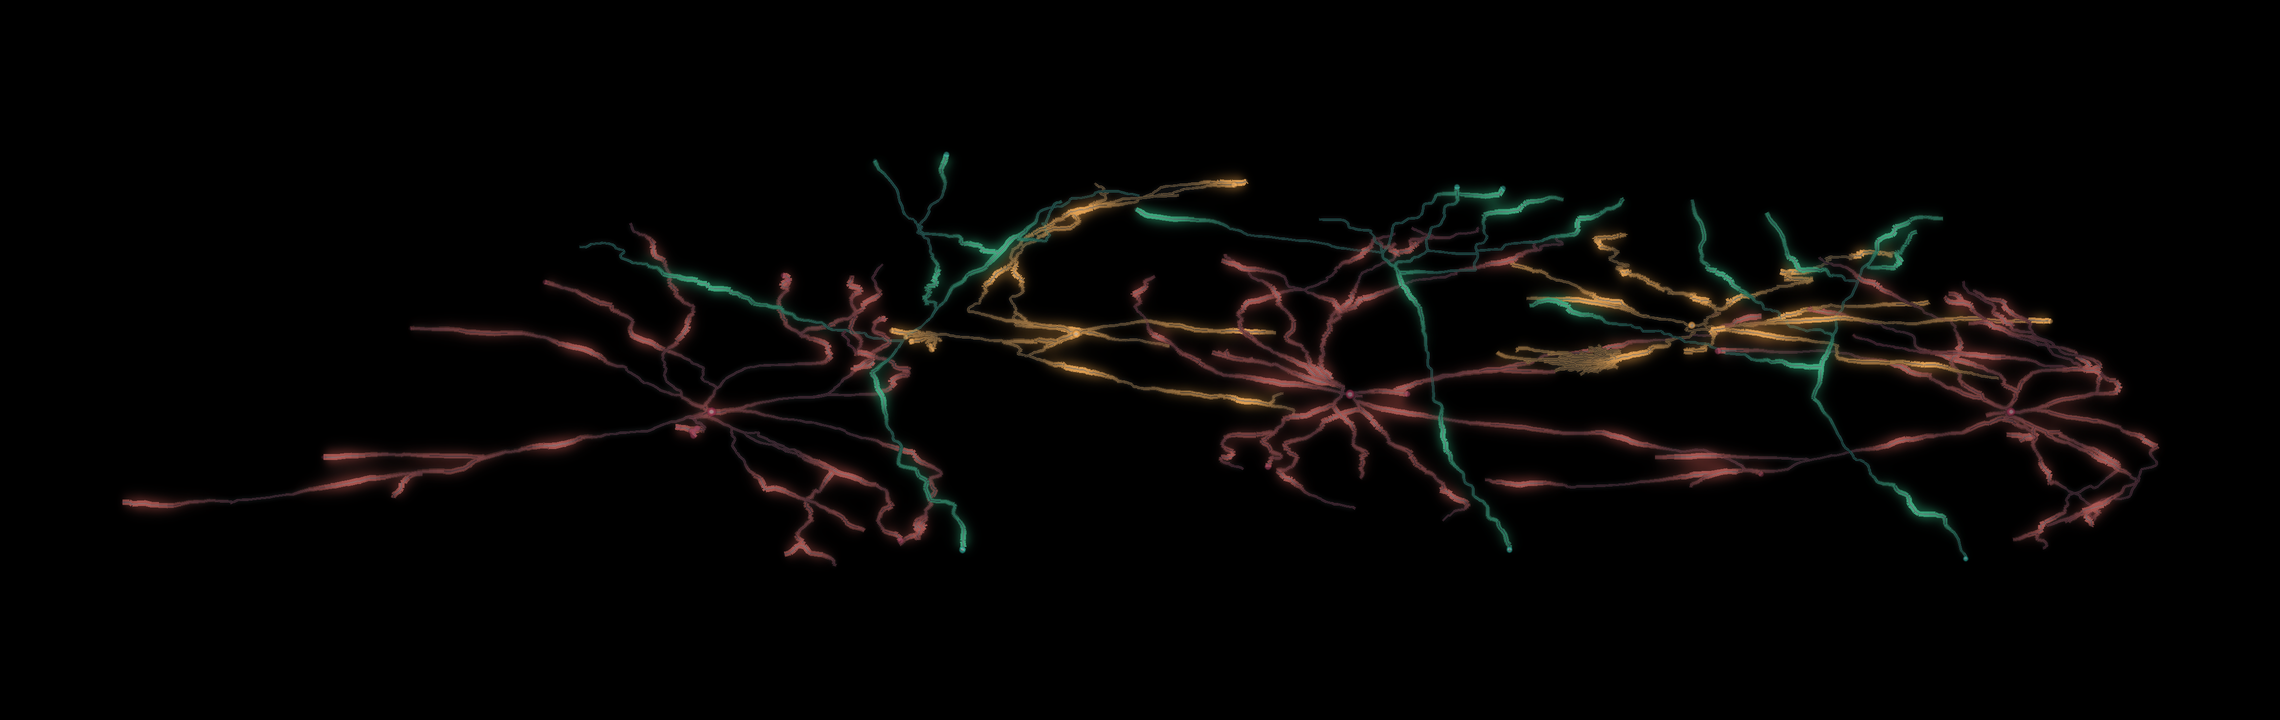
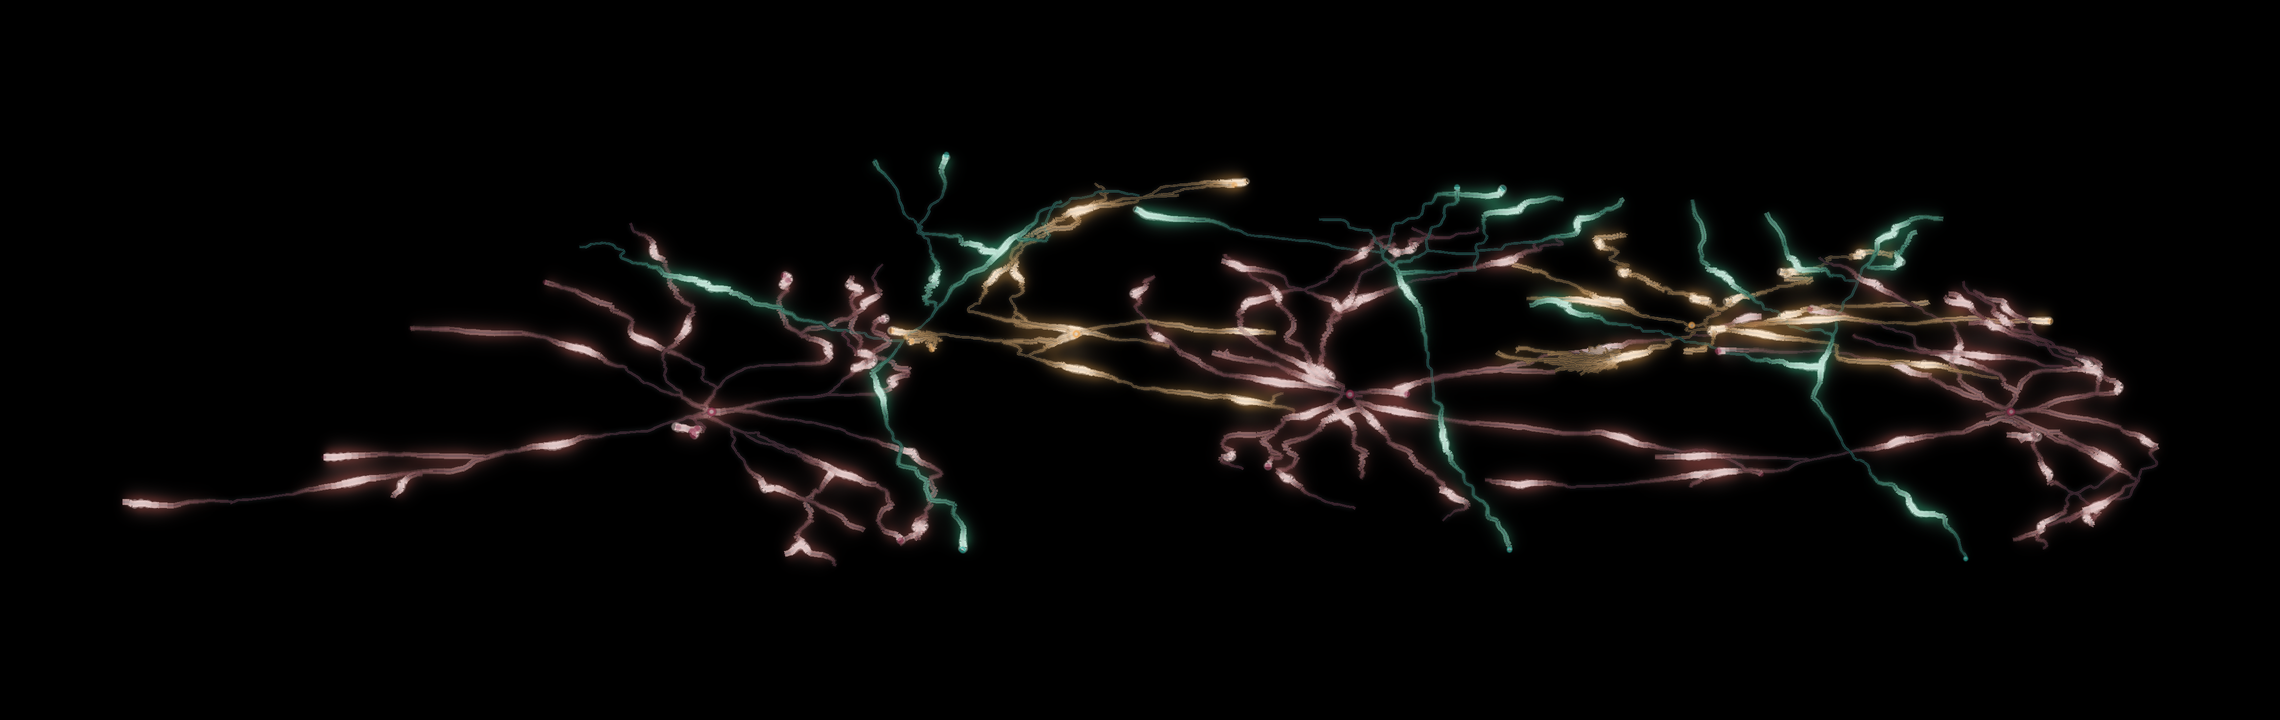
Strengthen header pulse bloom highlights

diff --git a/notebooks/website_header_blenderneuron_style.py b/notebooks/website_header_blenderneuron_style.py
@@ -25,6 +25,7 @@ GOLD = np.array([241, 161, 67], dtype=float)
 TEAL = np.array([21, 168, 152], dtype=float)
 CYAN = np.array([8, 232, 232], dtype=float)
 GREEN = np.array([104, 200, 8], dtype=float)
+WHITE = np.array([255, 255, 255], dtype=float)
 BG = tuple(int(channel) for channel in INK)
 TYPE_COLORS = {
     "MC": MAROON,
@@ -440,17 +441,26 @@ def render_frame(
         elif mode in ("dense_microcircuit", "layered_exchange"):
             pulse_tint = mix(TEAL, GREEN, 0.22)
         if active > 0.10:
-            bloom_tint = mix(pulse_tint, np.array([255, 255, 255], dtype=float), 0.22)
-            draw_soft_line(bloom_draw, seg, bloom_tint, 38 * active, seg.width * (9.0 + 2.8 * active))
-        draw_soft_line(glow_draw, seg, pulse_tint, 92 * active, seg.width * (6.2 + 1.9 * active))
-        draw_soft_line(core_draw, seg, mix(pulse_tint, np.array([255, 255, 255], dtype=float), 0.12), 218 * active, seg.width * (1.72 + 0.85 * active))
-        if active > 0.44:
-            highlight = (active - 0.44) / 0.56
-            draw_soft_line(core_draw, seg, np.array([255, 255, 255], dtype=float), 84 * highlight, max(1.0, seg.width * 0.70))
-        if active > 0.62:
-            draw_soft_line(core_draw, seg, np.array([255, 255, 255], dtype=float), 56 * active, max(1.0, seg.width * 0.45))
+            bloom_tint = mix(pulse_tint, WHITE, 0.42)
+            draw_soft_line(bloom_draw, seg, bloom_tint, 64 * active, seg.width * (11.0 + 3.8 * active))
+        draw_soft_line(glow_draw, seg, pulse_tint, 108 * active, seg.width * (6.8 + 2.2 * active))
+        core_tint = mix(pulse_tint, WHITE, 0.24 + 0.46 * active)
+        draw_soft_line(core_draw, seg, core_tint, 238 * active, seg.width * (1.88 + 0.95 * active))
+        if active > 0.34:
+            highlight = (active - 0.34) / 0.66
+            draw_soft_line(core_draw, seg, WHITE, 158 * highlight, max(1.0, seg.width * (0.72 + 0.26 * highlight)))
+        if active > 0.70:
+            hot = (active - 0.70) / 0.30
+            draw_soft_line(spark_draw, seg, WHITE, 190 * hot, max(1.0, seg.width * (0.55 + 0.35 * hot)))
+            ellipse(
+                spark_draw,
+                0.5 * (seg.x0 + seg.x1),
+                0.5 * (seg.y0 + seg.y1),
+                seg.width * (0.95 + 1.05 * hot),
+                rgba(mix(pulse_tint, WHITE, 0.78), 132 * hot),
+            )
 
-    bloom = bloom.filter(ImageFilter.GaussianBlur(radius=7.0 * SUPERSAMPLE))
+    bloom = bloom.filter(ImageFilter.GaussianBlur(radius=8.3 * SUPERSAMPLE))
     glow = glow.filter(ImageFilter.GaussianBlur(radius=4.2 * SUPERSAMPLE))
     image = Image.alpha_composite(image, bloom)
     image = Image.alpha_composite(image, glow)
@@ -636,10 +646,28 @@ def build_global_gif_palette(frames: list[Image.Image], colors: int) -> Image.Im
     scale = max(1, math.ceil(sample_frames[0].width / 760))
     sample_width = max(1, sample_frames[0].width // scale)
     sample_height = max(1, sample_frames[0].height // scale)
-    palette_source = Image.new("RGB", (sample_width, sample_height * len(sample_frames)), BG)
+    anchor_height = max(24, sample_height // 16)
+    palette_source = Image.new("RGB", (sample_width, sample_height * len(sample_frames) + anchor_height), BG)
     for idx, frame in enumerate(sample_frames):
         sample = frame.resize((sample_width, sample_height), Image.Resampling.LANCZOS)
         palette_source.paste(sample, (0, idx * sample_height))
+    anchors = [
+        BG,
+        tuple(WHITE.astype(np.uint8)),
+        tuple(GOLD.astype(np.uint8)),
+        tuple(CYAN.astype(np.uint8)),
+        tuple(GREEN.astype(np.uint8)),
+        tuple(TEAL.astype(np.uint8)),
+        tuple(MAROON.astype(np.uint8)),
+        tuple(mix(MAROON, GOLD, 0.32).astype(np.uint8)),
+        tuple(mix(TEAL, GREEN, 0.22).astype(np.uint8)),
+    ]
+    anchor_y0 = sample_height * len(sample_frames)
+    stripe_width = max(1, math.ceil(sample_width / len(anchors)))
+    draw = ImageDraw.Draw(palette_source)
+    for idx, color in enumerate(anchors):
+        x0 = idx * stripe_width
+        draw.rectangle((x0, anchor_y0, min(sample_width, x0 + stripe_width), anchor_y0 + anchor_height), fill=color)
     return palette_source.quantize(colors=colors, method=Image.Quantize.MEDIANCUT, dither=Image.Dither.NONE)
 
 